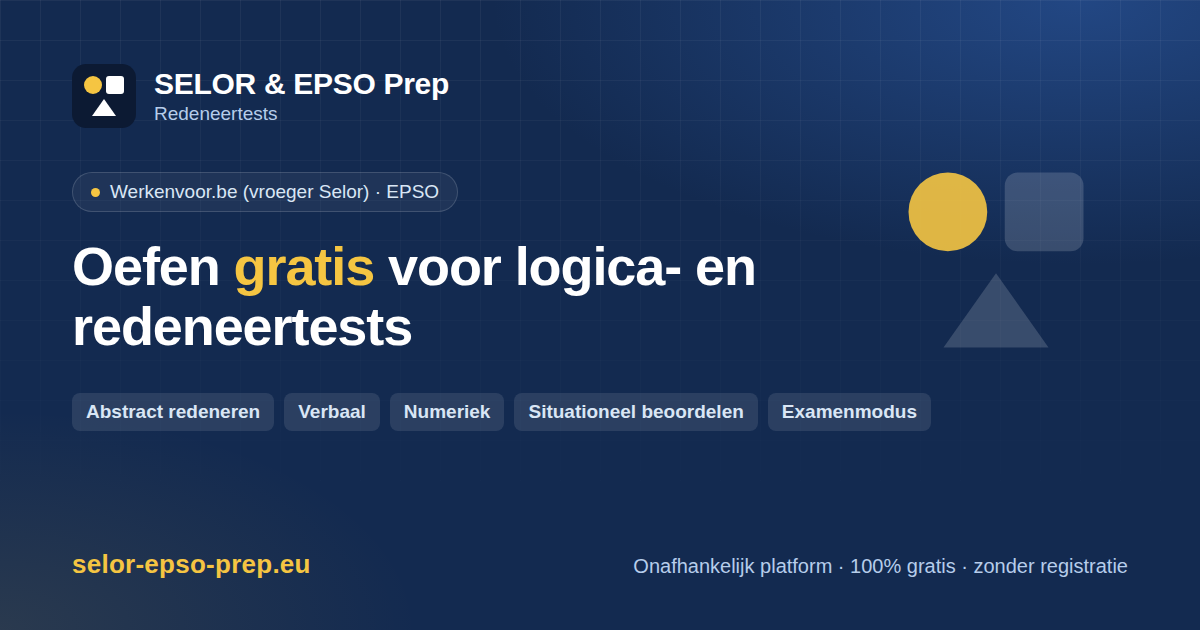
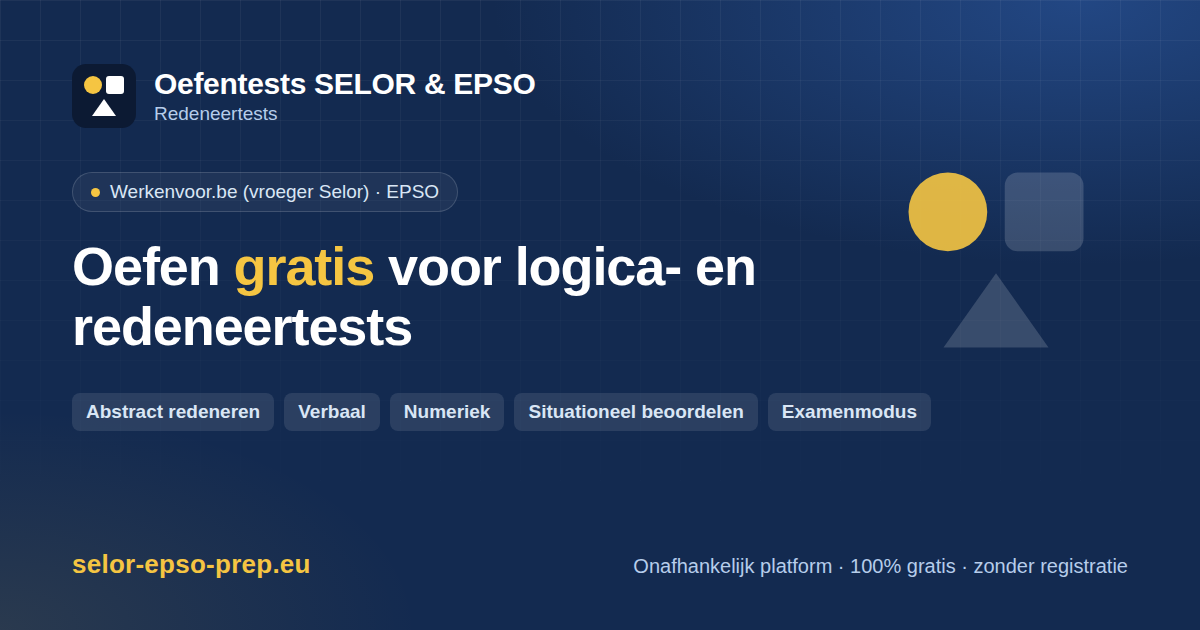
Version néerlandaise : corrections de relecture
- Accueil NL : le bouton de l'encart « Volg je voortgang » affichait
  « Ma progression », texte écrit en dur dans le gabarit ; il utilise
  maintenant le dictionnaire (« Mijn voortgang »). La valeur provisoire
  « 40 min » du mode examen passe aussi par les dictionnaires.
- Tests : aucune chaîne de l'interface d'une langue dans une page
  construite de l'autre (hors noms propres et sélecteur de langue), et
  balises hreflang fr-BE, nl-BE et x-default sur chaque page construite.
- Nom du site en néerlandais : « Oefentests SELOR & EPSO » (en-tête,
  titres, balises og, image de partage NL, pied de page). En-tête : sous
  640 px, le lien Modules n'affiche que son icône (comme Mijn voortgang) ;
  sous 360 px, nom plus petit et sans sous-titre, pour tenir sur 64 px.
- Jugement : « diensthoofd » dans le contexte belge ; « hoofd van je
  eenheid » reste dans la situation à la Commission européenne.
- Numérique NL : 0,3 VTE, 47.500 aanvragen (affichage en entier d'une
  réponse calculée en milliers : format.displayScale, sans effet sur les
  calculs), verbruikspost. Valeurs et réponses inchangées.
- Question permis-taux-traitement : ambiguïté levée dans les deux
  langues, même identifiant et même bonne réponse.
- Test : « tests » (jamais « testen ») et tutoiement en néerlandais, hors
  paroles citées.
- RELECTURE-NL.md (non publié) : points à faire vérifier par une personne
  néerlandophone.

Claude-Session: https://claude.ai/code/session_01Ur9VYYYnbZqBZUR2kfHxif

Changed region(s): [[0.1233, 0.1206, 0.4625, 0.1508]]

diff --git a/tests/site.test.js b/tests/site.test.js
@@ -8,7 +8,8 @@ import { dirname, join, posix } from 'node:path';
 import { test } from 'node:test';
 import { fileURLToPath } from 'node:url';
 
-import { pageFile, pageUrl, renderSite } from '../scripts/build-site.js';
+import { MESSAGES } from '../assets/js/lib/i18n.js';
+import { pageFile, pageUrl, readDictionaries, renderSite } from '../scripts/build-site.js';
 import { LANGUAGES, NL_PUBLIC, PAGES, SITE, STATIC_ENTRIES } from '../scripts/site/config.js';
 
 const root = join(dirname(fileURLToPath(import.meta.url)), '..');
@@ -217,4 +218,62 @@ test('un seul module accède au stockage du navigateur', () => {
   walk('assets/js');
   const users = sources.filter((path) => /localStorage|sessionStorage|indexedDB/.test(readFileSync(join(root, path), 'utf8')));
   assert.deepEqual(users, ['assets/js/progression/store.js']);
+});
+
+/* ----- Aucune chaîne d'une langue dans les pages de l'autre ----- */
+
+/** Noms propres affichés tels quels dans les deux langues. */
+const PROPER_NOUNS = new Set(['EPSO — EU Careers']);
+
+const ENTITIES = { amp: '&', lt: '<', gt: '>', quot: '"', apos: "'", nbsp: ' ', hellip: '…' };
+const decode = (text) =>
+  text.replace(/&(#x[0-9a-f]+|#\d+|\w+);/gi, (entity, code) =>
+    code[0] !== '#' ? (ENTITIES[code] ?? entity) : String.fromCodePoint(code[1] === 'x' ? parseInt(code.slice(2), 16) : Number(code.slice(1))),
+  );
+const normalize = (text) => decode(text).replace(/[\s  ]+/g, ' ').trim();
+
+/**
+ * Textes visibles ou lus d'une page (ou d'un fragment) : nœuds de texte, titre, attributs alt, title,
+ * aria-label et placeholder, description et balises de partage. Un élément qui déclare une autre langue
+ * (`lang`, comme le lien du sélecteur de langue) est exclu : son texte est volontairement dans l'autre langue.
+ */
+function textSegments(html, lang) {
+  let source = html.replace(/<script[\s\S]*?<\/script>|<style[\s\S]*?<\/style>|<!--[\s\S]*?-->/g, '');
+  if (lang) source = source.replace(new RegExp(`<(\\w+)\\b[^>]*\\slang="(?!${lang}")[^"]*"[^>]*>[\\s\\S]*?<\\/\\1>`, 'g'), '');
+  const segments = [
+    ...[...source.matchAll(/\s(?:alt|title|aria-label|placeholder)="([^"]*)"/g)].map(([, value]) => value),
+    ...[...source.matchAll(/<meta (?:name|property)="(?:description|og:title|og:description|og:image:alt|twitter:title|twitter:description|twitter:image:alt)" content="([^"]*)">/g)].map(([, value]) => value),
+    ...source.split(/<[^>]+>/),
+  ];
+  return segments.map(normalize).filter((text) => /\p{L}.*\p{L}/u.test(text));
+}
+
+const strings = (node) => (typeof node === 'string' ? [node] : node && typeof node === 'object' ? Object.values(node).flatMap(strings) : []);
+const dictionarySegments = (lang) =>
+  new Set([...strings(readDictionaries()[lang]), ...strings(MESSAGES[lang])].flatMap((text) => textSegments(text)));
+
+test('aucune chaîne de l’interface française dans une page néerlandaise construite, ni l’inverse', () => {
+  const own = { fr: dictionarySegments('fr'), nl: dictionarySegments('nl') };
+  const shown = { fr: new Set(), nl: new Set() };
+  for (const { file, lang } of pages) for (const text of textSegments(site[file], lang)) shown[lang].add(text);
+  // Page 404 : chaque partie est dans sa langue.
+  const notFound = Object.fromEntries([...site['404.html'].matchAll(/<section[^>]*lang="(\w+)"[^>]*>([\s\S]*?)<\/section>/g)].map(([, lang, html]) => [lang, html]));
+  const checked = [...pages.map(({ file, lang }) => ({ where: file, lang, html: site[file] })), ...Object.entries(notFound).map(([lang, html]) => ({ where: `404.html (${lang})`, lang, html }))];
+
+  const leaks = [];
+  for (const { where, lang, html } of checked) {
+    const other = lang === 'fr' ? 'nl' : 'fr';
+    for (const text of new Set(textSegments(html, lang))) {
+      const foreign = own[other].has(text) || shown[other].has(text);
+      if (foreign && !own[lang].has(text) && !PROPER_NOUNS.has(text)) leaks.push(`${where} : « ${text} »`);
+    }
+  }
+  assert.deepEqual(leaks, [], `chaînes de l’autre langue :\n${leaks.join('\n')}`);
+});
+
+test('chaque page construite déclare ses versions fr-BE, nl-BE et x-default (link rel="alternate" hreflang)', () => {
+  for (const { file, page } of pages) {
+    const declared = Object.fromEntries(hreflangs(site[file]).map(({ lang, href }) => [lang, href]));
+    assert.deepEqual(declared, { 'fr-BE': pageUrl(page, 'fr'), 'nl-BE': pageUrl(page, 'nl'), 'x-default': pageUrl(page, 'fr') }, `${file} : balises hreflang`);
+  }
 });

diff --git a/assets/js/numerique/quiz.js b/assets/js/numerique/quiz.js
@@ -7,8 +7,12 @@
  *       columns: [{ key, label, unit?, decimals? }],
  *       rows: [{ key, label, total?, values: { <colonne>: nombre } }],
  *       questions: [{ id, skill, difficulty: 1 | 2 | 3, text, formula, steps: [{ id?, label, expression }],
- *         format: { decimals, unit?, signed? }, answer, options: [{ value, why?, expression? }],
+ *         format: { decimals, unit?, signed?, displayScale? }, answer, options: [{ value, why?, expression? }],
  *         explanation }] }] }
+ *
+ * `displayScale` multiplie la valeur à l'affichage seulement : une réponse calculée en milliers (47,5)
+ * s'affiche alors en entier (47.500). Il peut ne figurer que dans une langue ; les calculs, les arrondis
+ * et les réponses ne changent pas.
  *
  * Un graphique en secteurs (`pie`) représente la colonne `pieColumn` (hors lignes « total ») ;
  * le tableau complet reste accessible. La difficulté s'affiche avec la question et équilibre le mode examen.
@@ -167,9 +171,15 @@ export const formatNumber = (value, decimals = 0, { signed = false } = {}) =>
 
 const withUnit = (text, unit) => (unit ? t('numerique.withUnit', { value: text, unit }) : text);
 
-/** Valeur d'une proposition ou d'un résultat, au format de la question. */
-export const formatAnswer = (value, { decimals = 0, unit = '', signed = false }) =>
-  withUnit(formatNumber(value, decimals, { signed }), unit);
+/**
+ * Valeur d'une proposition ou d'un résultat, au format de la question. Avec `displayScale`, la valeur est
+ * d'abord arrondie à `decimals`, puis multipliée : 47,48 en milliers à une décimale s'affiche « 47.500 ».
+ */
+export const formatAnswer = (value, { decimals = 0, unit = '', signed = false, displayScale = 1 }) => {
+  if (displayScale === 1) return withUnit(formatNumber(value, decimals, { signed }), unit);
+  const scaled = Number(value.toFixed(decimals)) * displayScale;
+  return withUnit(formatNumber(scaled, Math.max(0, decimals - Math.round(Math.log10(displayScale))), { signed }), unit);
+};
 
 /** Affichage d'un résultat intermédiaire : entier exact, sinon arrondi à 2 décimales (« ≈ »). */
 const formatIntermediate = (value) => {
@@ -376,6 +386,8 @@ export function validateBank(bank) {
       if (!SKILLS[question.skill]) errors.push(`${at} : compétence « ${question.skill} » inconnue.`);
       if (!isDifficulty(question.difficulty)) errors.push(`${at} : difficulté 1, 2 ou 3 attendue.`);
       if (!question.text || !question.formula || !question.explanation) errors.push(`${at} : énoncé, formule ou explication manquant.`);
+      const scale = question.format?.displayScale;
+      if (scale !== undefined && !(scale >= 10 && Number.isInteger(Math.log10(scale)))) errors.push(`${at} : displayScale doit être une puissance de 10 (10, 100, 1000…).`);
       if (!Array.isArray(question.options) || question.options.length !== OPTION_LETTERS.length) {
         errors.push(`${at} : ${OPTION_LETTERS.length} propositions attendues.`);
         continue;

diff --git a/tests/i18n.test.js b/tests/i18n.test.js
@@ -40,6 +40,7 @@ const SAME_IN_BOTH = new Set([
   'numerique.formula', // « Formule »
   'verbal.keys.impossible', // touche « ? »
   'examen.minutes', // « 40 min »
+  'examen.statDurationValue', // « 40 min » (avant le calcul de la durée par le script)
 ]);
 
 /* ----- Dictionnaires des pages (src/i18n/) ----- */
@@ -125,6 +126,22 @@ test('la version néerlandaise utilise les noms officiels belges et européens',
   assert.equal(site.transparency, 'Je resultaten blijven op dit toestel: er wordt niets verzonden of gedeeld.');
   const all = JSON.stringify(pageDictionaries.nl) + flatten(MESSAGES.nl).map(([, value]) => String(value)).join('\n');
   assert.doesNotMatch(all, /Travaillerpour|SPF BOSA|Office européen/, 'nom français d’un organisme');
+  assert.equal(site.brand, 'Oefentests SELOR &amp; EPSO');
+  assert.doesNotMatch(all, /EPSO Prep/, 'ancien nom du site');
+});
+
+test('la version néerlandaise écrit « tests » et tutoie la lectrice ou le lecteur (« je »)', () => {
+  const strings = (node) => (typeof node === 'string' ? [node] : node && typeof node === 'object' ? Object.values(node).flatMap(strings) : []);
+  const banks = readdirSync(join(root, 'data/nl')).map((file) => [`data/nl/${file}`, JSON.parse(readFileSync(join(root, 'data/nl', file), 'utf8'))]);
+  const sources = [['src/i18n/nl.json', pageDictionaries.nl], ['assets/js/i18n/nl.js', MESSAGES.nl], ...banks];
+  for (const [source, content] of sources) {
+    for (const text of strings(content)) {
+      // Les paroles citées (“…”) peuvent vouvoyer : un agent s'adresse à un citoyen, une carte à un fonctionnaire.
+      const own = text.replace(/“[^”]*”/g, '');
+      assert.doesNotMatch(own, /\btesten\b/i, `${source} : « testen » au lieu de « tests » dans « ${text} »`);
+      assert.doesNotMatch(own, /\b(?:u|uw|U|Uw)\b/, `${source} : vouvoiement dans « ${text} »`);
+    }
+  }
 });
 
 test('les textes néerlandais n’ont pas la typographie française', () => {
@@ -149,6 +166,8 @@ test('les nombres suivent le format de la langue : fr-BE et nl-BE', () => {
   assert.equal(formatAnswer(5.2083, { decimals: 1, unit: '%' }), '5,2%');
   assert.equal(formatAnswer(1250, { decimals: 0, unit: 'mln euro' }), '1.250\u00a0mln euro');
   assert.equal(formatAnswer(7.514, { decimals: 2, unit: '€' }), '€\u00a07,51');
+  // Réponse calculée en milliers, affichée en entier : arrondie à la décimale, puis multipliée.
+  assert.equal(formatAnswer(47.4833, { decimals: 1, unit: 'aanvragen', displayScale: 1000 }), '47.500\u00a0aanvragen');
   assert.equal(t('format.percent', { value: 72 }), '72%');
   setLocale('fr');
   assert.equal(formatAnswer(5.2083, { decimals: 1, unit: '%' }), '5,2 %');

diff --git a/scripts/calculer-numerique.js b/scripts/calculer-numerique.js
@@ -28,9 +28,13 @@ export const NL_BANK_PATH = fileURLToPath(new URL('../data/nl/numerique.json', i
 /** Champs de texte, propres à chaque langue ; tout le reste doit être identique dans les deux banques. */
 const TEXT_KEYS = new Set(['title', 'theme', 'note', 'rowHeader', 'unit', 'label', 'text', 'formula', 'why', 'explanation']);
 
+/** Réglages d'affichage propres à une langue, qui peuvent ne figurer que dans une banque (format.displayScale). */
+const DISPLAY_KEYS = new Set(['displayScale']);
+
 /**
  * Écarts de calcul entre la banque française et sa traduction (liste vide si elles concordent) :
- * même structure, mêmes clés, mêmes nombres, mêmes expressions ; seuls les champs de TEXT_KEYS peuvent différer.
+ * même structure, mêmes clés, mêmes nombres, mêmes expressions ; seuls les champs de TEXT_KEYS et DISPLAY_KEYS
+ * peuvent différer.
  */
 export function calculationDifferences(french, translated, path = 'banque') {
   if (Array.isArray(french) || Array.isArray(translated)) {
@@ -41,6 +45,7 @@ export function calculationDifferences(french, translated, path = 'banque') {
     if (translated === null || typeof translated !== 'object') return [`${path} : structure différente`];
     const keys = [...new Set([...Object.keys(french), ...Object.keys(translated)])];
     return keys.flatMap((key) => {
+      if (DISPLAY_KEYS.has(key)) return [];
       if (!(key in french) || !(key in translated)) return [`${path}.${key} : présent dans une seule langue`];
       if (TEXT_KEYS.has(key)) return typeof translated[key] === typeof french[key] ? [] : [`${path}.${key} : texte manquant`];
       return calculationDifferences(french[key], translated[key], `${path}.${key}`);

diff --git a/src/partials/header.html b/src/partials/header.html
@@ -6,8 +6,8 @@
       <a href="{{home}}index.html" class="flex items-center gap-2.5 rounded-md">
         <img src="{{root}}assets/img/favicon.svg" alt="" width="36" height="36" class="h-9 w-9">
         <span class="leading-tight">
-          <span class="block text-base font-bold tracking-tight text-brand-900">{{t:site.brand}}</span>
-          <span class="block text-xs text-slate-500">{{t:site.tagline}}</span>
+          <span class="block text-base font-bold tracking-tight text-brand-900 max-[359px]:text-sm">{{t:site.brand}}</span>
+          <span class="block text-xs text-slate-500 max-[359px]:hidden">{{t:site.tagline}}</span>
         </span>
       </a>
       <nav aria-label="{{t:site.navLabel}}" class="flex shrink-0 items-center sm:gap-1">
@@ -18,7 +18,7 @@
         </a>
 {{/if}}        <a href="{{home}}index.html#modules" class="inline-flex items-center gap-1.5 rounded-lg px-2 py-2 sm:px-3 text-sm font-medium text-slate-600 transition hover:bg-slate-100 hover:text-brand-900">
           <svg class="h-4 w-4" viewBox="0 0 24 24" fill="none" stroke="currentColor" stroke-width="2" stroke-linecap="round" stroke-linejoin="round" aria-hidden="true"><path d="M19 12H5M11 18l-6-6 6-6"/></svg>
-          <span>{{t:site.modules}}</span>
+          <span class="sr-only sm:not-sr-only">{{t:site.modules}}</span>
         </a>
       </nav>
     </div>

diff --git a/src/pages/index.html b/src/pages/index.html
@@ -12,8 +12,8 @@
       <a href="#top" class="flex items-center gap-2.5 rounded-md">
         <img src="{{root}}assets/img/favicon.svg" alt="" width="36" height="36" class="h-9 w-9">
         <span class="leading-tight">
-          <span class="block text-base font-bold tracking-tight text-brand-900">{{t:site.brand}}</span>
-          <span class="block text-xs text-slate-500">{{t:site.tagline}}</span>
+          <span class="block text-base font-bold tracking-tight text-brand-900 max-[359px]:text-sm">{{t:site.brand}}</span>
+          <span class="block text-xs text-slate-500 max-[359px]:hidden">{{t:site.tagline}}</span>
         </span>
       </a>
 
@@ -278,7 +278,7 @@
             </div>
           </div>
           <a href="{{home}}progression/index.html" class="inline-flex shrink-0 items-center justify-center gap-2 rounded-lg bg-brand-900 px-4 py-2.5 text-sm font-semibold text-white transition hover:bg-brand-800">
-            Ma progression
+            {{t:site.myProgress}}
             <svg class="h-4 w-4" viewBox="0 0 24 24" fill="none" stroke="currentColor" stroke-width="2" stroke-linecap="round" stroke-linejoin="round" aria-hidden="true"><path d="M5 12h14M13 6l6 6-6 6"/></svg>
           </a>
         </aside>

diff --git a/assets/js/i18n/nl.js b/assets/js/i18n/nl.js
@@ -146,7 +146,7 @@ export default {
     emptyFile: 'Het bestand is leeg.',
     fileTooLarge: 'Het bestand is te groot om een export van je voortgang te zijn.',
     invalidJson: 'Het bestand is geen geldig JSON-bestand.',
-    foreignFile: 'Dit bestand is niet afkomstig van SELOR & EPSO Prep.',
+    foreignFile: 'Dit bestand is niet afkomstig van Oefentests SELOR & EPSO.',
     moreErrors: '… en nog {count} andere fout(en).',
     unavailable: 'De opslag van deze browser is niet beschikbaar.',
     writeFailed: 'Opslaan in deze browser is mislukt (onvoldoende ruimte?).',

diff --git a/src/pages/modules/examen.html b/src/pages/modules/examen.html
@@ -37,7 +37,7 @@
           </div>
           <div>
             <dt class="text-xs font-medium text-brand-200">{{t:examen.statDuration}}</dt>
-            <dd class="mt-1 text-2xl font-bold sm:text-3xl" data-intro-duration>40 min</dd>
+            <dd class="mt-1 text-2xl font-bold sm:text-3xl" data-intro-duration>{{t:examen.statDurationValue}}</dd>
           </div>
           <div>
             <dt class="text-xs font-medium text-brand-200">{{t:examen.statSections}}</dt>

diff --git a/RELECTURE-NL.md b/RELECTURE-NL.md
@@ -1,0 +1,79 @@
+# Relecture de la version néerlandaise
+
+Points à faire vérifier par une personne néerlandophone de Belgique, idéalement familière du registre de l'administration flamande et fédérale. Ce fichier n'est pas publié : il n'est pas dans `dist/`.
+
+Pour chaque point, il faut confirmer le choix actuel ou proposer mieux. Toute correction se fait dans les fichiers indiqués, en gardant les mêmes identifiants et les mêmes bonnes réponses. Les tests le vérifient.
+
+## 1. Raisonnement verbal : les trois réponses
+
+Fichiers : `assets/js/i18n/nl.js` (clé `verbal.answers` et explications des réponses) et `src/i18n/nl.json` (consignes de la page).
+
+| Français | Néerlandais actuel | Raccourci clavier |
+|---|---|---|
+| Vrai | **Waar** | `w` |
+| Faux | **Niet waar** | `n` |
+| On ne peut pas savoir | **Kan niet worden bepaald** | `?` |
+
+- Est-ce la formulation habituelle des tests de raisonnement verbal en néerlandais (Werkenvoor.be, EPSO) ? Variantes possibles : « Onwaar », « Niet te bepalen », « Kan niet worden afgeleid », « Onvoldoende informatie ».
+- Les explications des 60 affirmations (`data/nl/verbal.json`) justifient cette troisième réponse par « kan (dus) niet worden bepaald ». Un test l'exige : si le libellé change, il faut adapter les explications et ce test.
+
+## 2. Institutions adaptées au contexte flamand
+
+Fichier : `data/nl/jugement.json`. Les situations sont fictives ; certaines ont été transposées plutôt que traduites mot à mot.
+
+| Situation | Français | Néerlandais | À vérifier |
+|---|---|---|---|
+| `dossier-dun-proche` | administration de la Fédération Wallonie-Bruxelles | administratie van de **Vlaamse Gemeenschap** | La transposition est-elle pertinente ? Faut-il garder une administration neutre ? |
+| `dossier-dun-proche` | ASBL | **vzw** | Terme correct. |
+| `pic-de-demandes-ete` | assistant(e) social(e) dans un CPAS | **maatschappelijk werker** in een **OCMW** | « OCMW » ou « lokaal bestuur / sociale dienst », puisque les OCMW flamands sont intégrés aux communes depuis 2019 ? |
+| `demarche-en-ligne-seulement` | espace public numérique | **openbare computerruimte** | En Flandre, le terme courant est-il « digitaal ontmoetingspunt », « EOC » ou « digipunt » ? |
+| `question-hors-competence` | service régional de l'emploi | **gewestelijke dienst voor arbeidsbemiddeling** | Formulation volontairement générique : est-elle naturelle ? |
+| plusieurs | administration régionale, administration communale, service public fédéral | **gewestelijke administratie**, **gemeentebestuur**, **federale overheidsdienst** | Registre correct ? |
+
+**Hiérarchie dans le jugement situationnel** : les choix actuels sont les suivants.
+
+- Contexte belge : « diensthoofd » pour « chef de service », « teamleider » pour « chef(fe) d'équipe », « leidinggevende » pour « supérieur(e) ».
+- Contexte européen (`critique-en-reunion`, Commission européenne) : « het hoofd van je eenheid » pour « cheffe d'unité ».
+
+Ces termes sont-ils ceux de l'administration ?
+
+**Villes** (`data/nl/numerique.json`, `centres-…`) : Brussel, Luik, Namen, Bergen.
+
+## 3. Autres points incertains
+
+### Nom et interface
+
+- **Nom du site** : « Oefentests SELOR & EPSO ». Faut-il garder « SELOR », alors que le nom officiel est désormais Werkenvoor.be ? Le français garde aussi « SELOR ».
+- **Tutoiement** : le site tutoie partout (« je »), dans un registre administratif.
+  - Le « u » n'apparaît que dans des paroles citées : un agent qui s'adresse à un citoyen, une carte d'un soumissionnaire.
+  - Le tutoiement convient-il à un public de candidats aux fonctions publiques ?
+- **« tests »** partout, jamais « testen » : « redeneertests », « selectietests ». Un test le vérifie.
+- **Menu et modules** :
+  - « Mijn voortgang » (Ma progression), « Mijn fouten herbekijken » (Revoir mes erreurs) ;
+  - « Examenmodus » et « proefexamen » (examen blanc) ;
+  - « Situationeel beoordelen » (jugement situationnel), « meest / minst gepast » (plus / moins adéquate), « antwoordsleutel » (grille de correction).
+- **Mention d'indépendance** : « De oefeningen zijn origineel en geïnspireerd op de formats van openbare selectietests. » La tournure « geïnspireerd op de formats » est-elle naturelle ?
+
+### Raisonnement numérique (`data/nl/numerique.json`)
+
+- **Unités** :
+  - « mln euro » pour M€ et « duizend euro » pour k€ ;
+  - euro devant le montant (« € 7,51 »), `%` collé au nombre (« 5,2% ») ;
+  - « VTE » pour ETP ;
+  - « procentpunt » ;
+  - « op 20 » pour les notes sur 20.
+- **Affichage en entier** : la projection des demandes au guichet (`canal-projection-guichet`) affiche « 47.500 aanvragen » au lieu de « 47,5 duizend ». Les données du graphique restent en milliers, comme l'indique la note.
+- **Vocabulaire** :
+  - « behandelingspercentage » (taux de traitement) ;
+  - « doorlooptijd » (délai de traitement) ;
+  - « verbruikspost » (poste de consommation d'énergie) ;
+  - « gewone begroting » (budget ordinaire communal) ;
+  - « gewogen gemiddelde » ;
+  - « procentuele verandering ».
+- **Prévision** : `centres-projection-namur` dit « Volgend jaar zou het aantal kandidaten … stijgen » pour « devrait augmenter ». Faut-il préférer « zal naar verwachting stijgen » ?
+
+### Raisonnement verbal (`data/nl/verbal.json`)
+
+- Dans les 60 affirmations, faire vérifier les quantificateurs : « de meeste », « alle », « sommige », « uitsluitend », « niet langer ».
+  - La nuance doit rester la même qu'en français, sinon la bonne réponse ne tiendrait plus.
+  - Les deux relectures déjà faites n'ont trouvé aucun cas, mais c'est le point le plus sensible.

diff --git a/README.md b/README.md
@@ -192,6 +192,7 @@ Contenus :
 - **Questions** : chaque question garde le même identifiant en français et en néerlandais. Les banques néerlandaises sont dans `data/nl/` ; tant qu'une banque n'est pas traduite (`TRANSLATED_BANKS`, `assets/js/lib/i18n.js`), la version néerlandaise utilise la banque française.
 - **Raisonnement abstrait** : les questions sont générées ; seuls l'interface, les titres des règles, les explications et les descriptions des figures sont traduits.
 - **Progression** : elle est commune aux deux langues (même stockage, mêmes identifiants).
+- **Relecture** : les points de traduction à faire vérifier par une personne néerlandophone sont listés dans `RELECTURE-NL.md` (non publié).
 
 Publication : la version néerlandaise est publique (`NL_PUBLIC = true`, `scripts/site/config.js`). Chaque page reçoit le sélecteur FR | NL (vers la page équivalente), les balises `hreflang` `fr-BE`, `nl-BE` et `x-default` (vers le français), et le sitemap ses alternances de langue ; la page 404 est bilingue. Aucune redirection automatique selon la langue du navigateur. Avec `NL_PUBLIC = false` (mode de la mise en ligne progressive), les pages `/nl/` restent générées mais ne sont pas découvrables : balise `noindex`, absentes du sitemap, ni sélecteur de langue ni balises `hreflang`, et la page 404 en français seulement.
 
@@ -363,6 +364,8 @@ Les tests (Node.js 20 ou plus) couvrent les cinq modules, le suivi de progressio
   - avant activation : pages néerlandaises en `noindex`, absentes du sitemap, ni sélecteur ni `hreflang` ;
   - après activation : sélecteur FR | NL vers la page équivalente, `hreflang` `fr-BE`, `nl-BE` et `x-default`, alternances dans le sitemap ;
   - aucune redirection selon la langue du navigateur ;
+  - aucune chaîne de l'interface française dans une page néerlandaise construite, ni l'inverse (hors noms propres et sélecteur de langue) ;
+  - chaque page construite déclare ses versions `fr-BE`, `nl-BE` et `x-default` (`<link rel="alternate" hreflang>`) ;
   - la page 404 est bilingue, non indexée, et ses liens visent des pages existantes ;
   - plus aucune référence à l'ancienne adresse github.io ;
   - la mention d'indépendance et la phrase de transparence figurent sur chaque page, dans sa langue ;
@@ -372,6 +375,7 @@ Les tests (Node.js 20 ou plus) couvrent les cinq modules, le suivi de progressio
   - les dictionnaires des pages et de l'interface ont les mêmes clés, les mêmes variables et les mêmes balises dans les deux langues, et chaque texte est traduit ;
   - chaque texte utilisé par le code existe dans les deux langues ;
   - noms officiels belges et européens, pas de typographie française dans les textes néerlandais, nombres au format `nl-BE` ;
+  - en néerlandais : « tests » (jamais « testen ») et tutoiement (« je ») partout, sauf dans les paroles citées ;
   - raisonnement abstrait : mêmes questions dans les deux langues, explications et descriptions traduites ;
   - chaque langue charge sa banque traduite (ou la banque française tant qu'elle n'est pas traduite).
 

diff --git a/CLAUDE.md b/CLAUDE.md
@@ -110,6 +110,8 @@ scripts/calculer-numerique.js  Calcule les propositions de data/numerique.json e
   - les tests de `tests/site.test.js` et `tests/i18n.test.js` le vérifient.
 - **Nouvelles classes Tailwind** : elles sont détectées dans les fichiers listés par `@source` dans `src/css/main.css` (gabarits, fragments, dictionnaires, JavaScript). Si un dossier n'y figure pas, l'ajouter.
 - **Traductions** : chaque traduction néerlandaise d'un module est relue par un second relecteur (contresens, tournures des Pays-Bas plutôt que de Belgique, et pour le verbal, affirmations dont la réponse ne tiendrait plus au regard du texte néerlandais).
+  - En néerlandais : « tests » (jamais « testen ») et tutoiement (« je ») ; nom du site « Oefentests SELOR & EPSO ».
+  - Les points à faire vérifier par une personne néerlandophone sont listés dans `RELECTURE-NL.md` (non publié) : le tenir à jour.
 - **Banques d'exercices** :
   - leur format est décrit en tête du `quiz.js` du module ;
   - `validateBank` et les tests vérifient les identifiants, les réponses, les citations exactes et les calculs.
